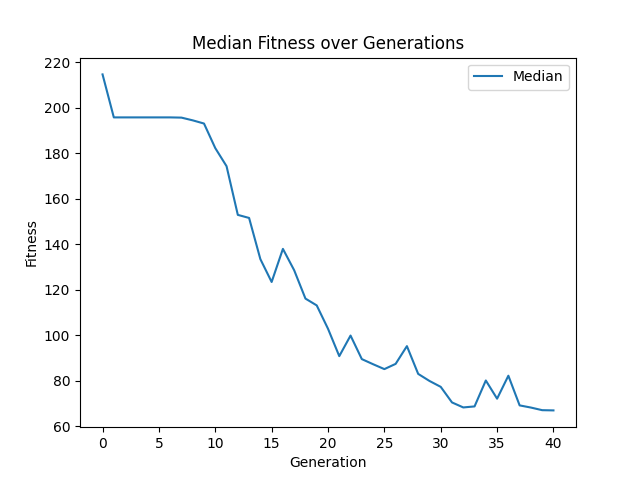
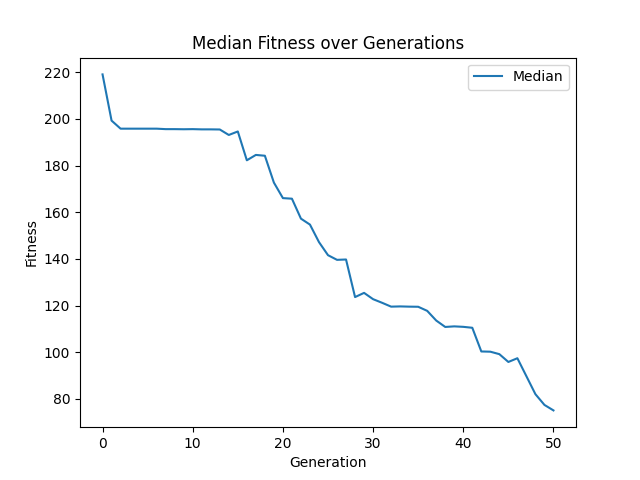
Add files via upload

diff --git a/RegularGPRiceProblem/main.py b/RegularGPRiceProblem/main.py
@@ -69,7 +69,7 @@ toolbox = base.Toolbox() #create a toolbox for the genetic programming algorithm
 @param eph - the type of ephemeral constant to use
 @param elitism - whether or not to use elitism
 @return - the accuracy of the best individual, the fitness log, the best individual, the testing data, the testing answers, and the training accuracy'''
-def main(data_filepath='Rice_Cammeo_Osmancik.arff', pop_size=100, n_gen=40, seed=7246325, cpb=0.85, mpb=0.25, eph="int", elitism=True):
+def main(data_filepath='Rice_Cammeo_Osmancik.arff', pop_size=100, n_gen=50, seed=7246325, cpb=0.85, mpb=0.25, eph="int", elitism=True):
     pset = gp.PrimitiveSet("MAIN", 7) #create a primitive set with 7 input features
     pset.addPrimitive(operator.add, 2) #add the add operator
     pset.addPrimitive(operator.sub, 2) #add the subtract operator
@@ -91,7 +91,7 @@ def main(data_filepath='Rice_Cammeo_Osmancik.arff', pop_size=100, n_gen=40, seed
     pset.renameArguments(ARG4='Eccentricity')
     pset.renameArguments(ARG5='Convex_Area')
     pset.renameArguments(ARG6='Extent')
-    toolbox.register("expr", gp.genHalfAndHalf, pset=pset, min_=3, max_=5) #register the expr function to generate a random tree
+    toolbox.register("expr", gp.genFull, pset=pset, min_=2, max_=3) #register the expr function to generate a random tree
     toolbox.register("individual", tools.initIterate, creator.Individual, toolbox.expr) #register the individual function to create an individual with the expr function
     toolbox.register("population", tools.initRepeat, list, toolbox.individual) #register the population function to create a population of individuals
     toolbox.register("compile", gp.compile, pset=pset) #register the compile function to compile a tree into a callable function
